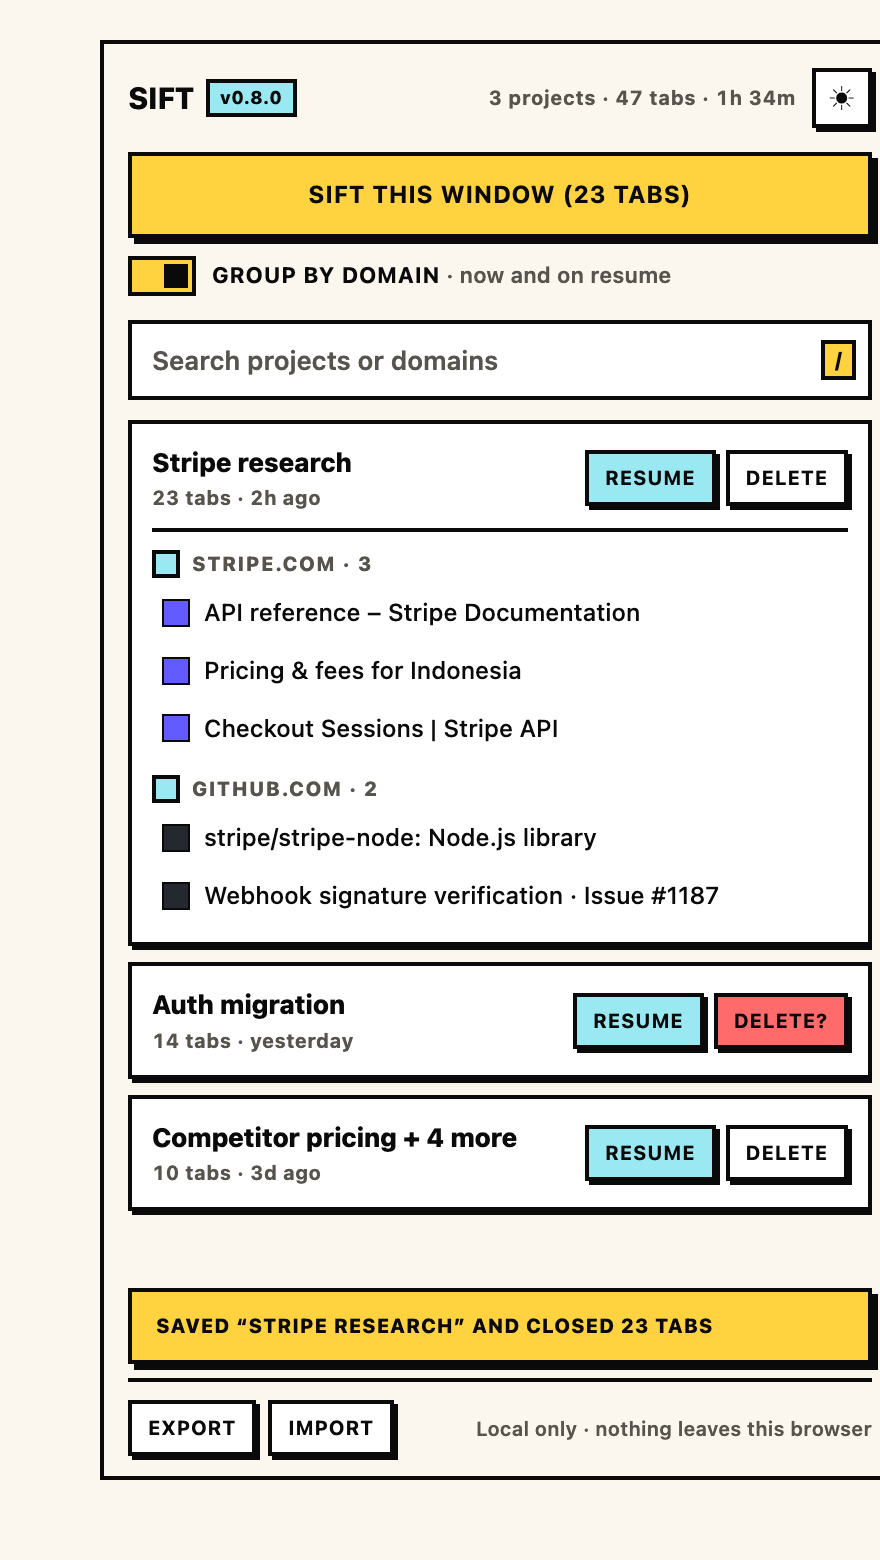
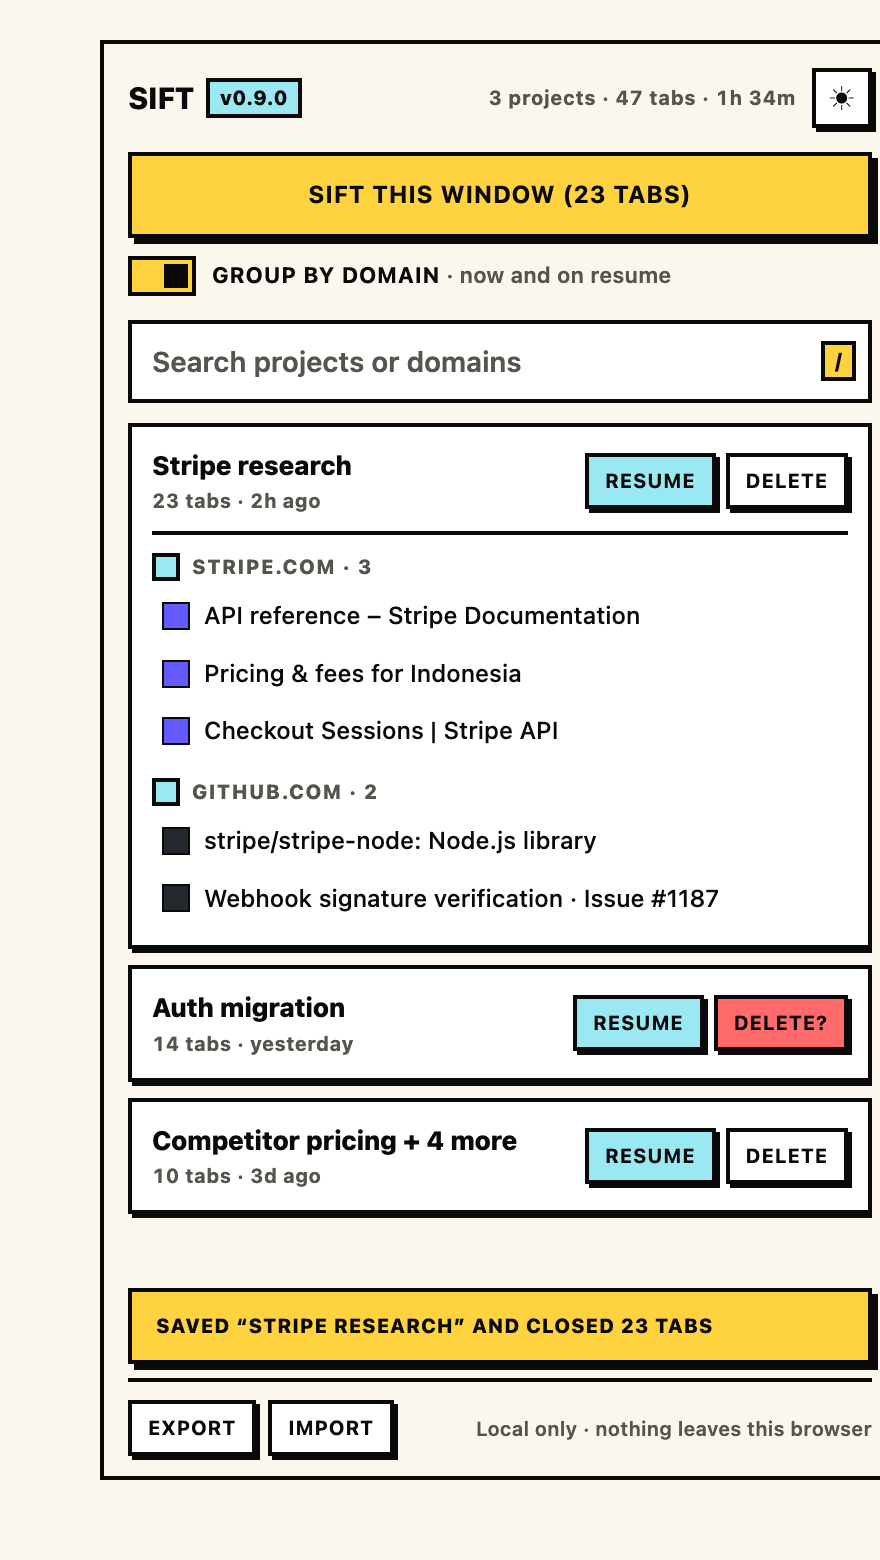
Consistent type scale, and make resume window-safe
Font sizes were seven ad-hoc values and the inputs had no size at all, so field
text silently inherited body copy and read smaller than the uppercase buttons.
There is now one six-step scale (10/11/12/13/14/15) in :root, every font-size
reads from it, and fields get their own step. tools/contrast.py fails on any raw
font-size outside the scale.

Resume: chrome.tabs.group() infers the window from the tabs it is given, so if
the tab ids resolved anywhere other than the new window the groups were created
there. The window is now passed explicitly (createProperties.windowId), tab ids
are filtered to that window before grouping, and the result is verified: the
panel logs newWindow/urls/tabsInWindow/groups and the toast says 'in a new
window' or names the problem instead of leaving you guessing.

Changed region(s): [[0.1534, 0.2154, 0.9818, 0.8], [0.2455, 0.0308, 0.3375, 0.0923]]

diff --git a/extension/sidepanel.css b/extension/sidepanel.css
@@ -14,6 +14,13 @@
   --focus: #2b2bff;
   --hard: 3px 3px 0 var(--ink);
   --hard-sm: 2px 2px 0 var(--ink);
+  /* one scale, six steps — every font-size below reads from here */
+  --fs-micro: 10px;  /* labels, meta, stats, note, toast, chips */
+  --fs-button: 11px; /* buttons and the toggle label (uppercase reads larger) */
+  --fs-row: 12px;    /* tab rows inside a project */
+  --fs-body: 13px;   /* body copy and project titles */
+  --fs-input: 14px;  /* field values — never inherit, fields get their own size */
+  --fs-title: 15px;  /* panel title */
 }
 
 /* Theme is explicit, not OS-driven: light is the default, the header button switches.
@@ -53,7 +60,9 @@ body {
   margin: 0;
   background: var(--bg);
   color: var(--fg);
-  font: 13px/1.4 -apple-system, BlinkMacSystemFont, "Segoe UI", system-ui, sans-serif;
+  font-family: -apple-system, BlinkMacSystemFont, "Segoe UI", system-ui, sans-serif;
+  font-size: var(--fs-body);
+  line-height: 1.4;
   display: flex;
   flex-direction: column;
   gap: 12px;
@@ -74,7 +83,7 @@ h1 {
   display: flex;
   align-items: center;
   gap: 6px;
-  font-size: 15px;
+  font-size: var(--fs-title);
   font-weight: 800;
   text-transform: uppercase;
   letter-spacing: -0.01em;
@@ -82,7 +91,7 @@ h1 {
 
 .ver {
   padding: 1px 5px;
-  font-size: 9px;
+  font-size: var(--fs-micro);
   font-weight: 800;
   text-transform: none;
   letter-spacing: 0.02em;
@@ -97,7 +106,7 @@ h1 {
   overflow: hidden;
   text-overflow: ellipsis;
   white-space: nowrap;
-  font-size: 10px;
+  font-size: var(--fs-micro);
   font-weight: 700;
   letter-spacing: 0.02em;
   color: var(--muted);
@@ -110,7 +119,7 @@ button.theme {
   width: 30px;
   height: 30px;
   padding: 0;
-  font-size: 14px;
+  font-size: var(--fs-input);
   line-height: 1;
 }
 
@@ -118,7 +127,7 @@ button.theme {
 
 button {
   font: inherit;
-  font-size: 11px;
+  font-size: var(--fs-button);
   font-weight: 700;
   text-transform: uppercase;
   letter-spacing: 0.03em;
@@ -177,14 +186,14 @@ button.cyan:hover:not(:disabled) {
 }
 
 button.small {
-  font-size: 10px;
+  font-size: var(--fs-micro);
   padding: 5px 8px;
 }
 
 button.wide {
   width: 100%;
   padding: 11px;
-  font-size: 12px;
+  font-size: var(--fs-row);
   box-shadow: var(--hard);
 }
 
@@ -204,7 +213,7 @@ button.wide {
   display: flex;
   flex-direction: column;
   gap: 5px;
-  font-size: 10px;
+  font-size: var(--fs-micro);
   font-weight: 700;
   text-transform: uppercase;
   letter-spacing: 0.04em;
@@ -226,7 +235,7 @@ button.wide {
 
 .row button {
   padding: 7px 8px;
-  font-size: 10px;
+  font-size: var(--fs-micro);
   white-space: nowrap;
 }
 
@@ -235,6 +244,7 @@ button.wide {
 input[type="text"],
 input[type="search"] {
   font: inherit;
+  font-size: var(--fs-input);
   font-weight: 600;
   width: 100%;
   padding: 9px 10px;
@@ -255,7 +265,7 @@ input::placeholder {
   display: flex;
   align-items: center;
   gap: 8px;
-  font-size: 11px;
+  font-size: var(--fs-button);
   font-weight: 700;
   text-transform: uppercase;
   letter-spacing: 0.03em;
@@ -347,7 +357,7 @@ input::placeholder {
   transform: translateY(-50%);
   padding: 1px 5px;
   font: inherit;
-  font-size: 10px;
+  font-size: var(--fs-micro);
   font-weight: 800;
   color: var(--primary-fg);
   background: var(--primary);
@@ -396,7 +406,7 @@ input::placeholder {
   box-shadow: none;
   background: none;
   text-transform: none;
-  font-size: 13px;
+  font-size: var(--fs-body);
   font-weight: 800;
   letter-spacing: -0.01em;
   text-align: left;
@@ -417,7 +427,7 @@ input::placeholder {
 }
 
 .meta {
-  font-size: 10px;
+  font-size: var(--fs-micro);
   font-weight: 700;
   letter-spacing: 0.01em;
   color: var(--muted);
@@ -462,7 +472,7 @@ button.delete:hover:not(:disabled) {
   align-items: center;
   gap: 6px;
   margin-bottom: 2px;
-  font-size: 10px;
+  font-size: var(--fs-micro);
   font-weight: 800;
   text-transform: uppercase;
   letter-spacing: 0.06em;
@@ -483,7 +493,7 @@ button.delete:hover:not(:disabled) {
   gap: 7px;
   width: 100%;
   padding: 5px;
-  font-size: 12px;
+  font-size: var(--fs-row);
   font-weight: 500;
   text-transform: none;
   letter-spacing: 0;
@@ -519,7 +529,7 @@ button.delete:hover:not(:disabled) {
   margin: 10px 0;
   padding: 20px 12px;
   text-align: center;
-  font-size: 11px;
+  font-size: var(--fs-button);
   font-weight: 700;
   text-transform: uppercase;
   letter-spacing: 0.03em;
@@ -540,7 +550,7 @@ button.delete:hover:not(:disabled) {
 .note {
   margin-left: auto;
   max-width: 55%;
-  font-size: 10px;
+  font-size: var(--fs-micro);
   font-weight: 600;
   line-height: 1.25;
   color: var(--muted);
@@ -554,7 +564,7 @@ button.delete:hover:not(:disabled) {
   bottom: 52px;
   margin: 0;
   padding: 10px 12px;
-  font-size: 10px;
+  font-size: var(--fs-micro);
   font-weight: 800;
   text-transform: uppercase;
   letter-spacing: 0.03em;

diff --git a/extension/sidepanel.js b/extension/sidepanel.js
@@ -306,14 +306,37 @@ async function onProjectClick(event) {
   if (action === 'resume') {
     const project = projects.find((p) => p.id === id);
     if (!project) return;
-    const win = await chrome.windows.create({ url: project.tabs.map((t) => t.url), focused: true });
-    const grouped = settings.groupByDomain ? await applyGroups(win.id, project.tabs) : { made: 0, errors: [] };
+
+    const urls = project.tabs.map((t) => t.url);
+    // always a NEW window: one project = one window, closable as a unit
+    const win = await chrome.windows.create({ url: urls, focused: true });
+    if (win?.id === undefined) {
+      status('Resume failed: Chrome did not report the new window.');
+      return;
+    }
+
+    const grouped = settings.groupByDomain
+      ? await applyGroups(win.id, project.tabs)
+      : { made: 0, errors: [] };
+
+    const placed = await chrome.tabs.query({ windowId: win.id });
+    console.info(
+      `Sift resume: newWindow=${win.id} urls=${urls.length} tabsInWindow=${placed.length} groups=${grouped.made}` +
+        (grouped.errors.length ? ` errors=${grouped.errors.join('; ')}` : ''),
+    );
+
     project.lastActiveAt = Date.now();
     await saveProjects(projects);
     render();
+
+    const problems = [...grouped.errors];
+    if (placed.length !== urls.length) {
+      problems.push(`${placed.length} of ${urls.length} tabs landed in the new window`);
+    }
     status(
-      `Resumed “${project.name}”${grouped.made ? ` in ${grouped.made} tab groups` : ''}` +
-        (grouped.errors.length ? ` — grouping failed: ${grouped.errors[0]}` : '.') ,
+      problems.length
+        ? `Resumed “${project.name}” in a new window — ${problems[0]}`
+        : `Resumed “${project.name}” in a new window${grouped.made ? `, ${grouped.made} tab groups` : ''}.`,
     );
     return;
   }
@@ -363,15 +386,21 @@ async function waitForUrls(windowId, timeoutMs = 2500) {
 }
 
 // groups: [{ title, color?, tabIds }] — returns what actually happened, never throws.
-async function groupTabs(groups) {
+// windowId is passed explicitly: without it Chrome infers the window from the tabs,
+// which is how a resume could quietly group tabs somewhere other than the new window.
+async function groupTabs(windowId, groups) {
   let made = 0;
   const errors = [];
 
+  const live = new Set((await chrome.tabs.query({ windowId })).map((t) => t.id));
+
   for (const [index, group] of groups.entries()) {
-    const tabIds = group.tabIds.filter((id) => id !== undefined);
+    const tabIds = group.tabIds.filter((id) => id !== undefined && live.has(id));
     if (!tabIds.length) continue;
     try {
-      const groupId = await withRetry(() => chrome.tabs.group({ tabIds }));
+      const groupId = await withRetry(() =>
+        chrome.tabs.group({ tabIds, createProperties: { windowId } }),
+      );
       await chrome.tabGroups.update(groupId, {
         title: group.title,
         color: group.color ?? GROUP_COLORS[index % GROUP_COLORS.length],
@@ -395,12 +424,20 @@ async function groupWindowByDomain(windowId) {
   ).map((group) => ({ title: group.domain, tabIds: group.tabs.map((t) => t.id) }));
 
   if (groups.length < 2) return { made: 0, errors: [] }; // one domain: nothing to group
-  return groupTabs(groups);
+  return groupTabs(windowId, groups);
 }
 
 // Resumed window → rebuild the groups the project was saved with.
 async function applyGroups(windowId, savedTabs) {
   const live = await waitForUrls(windowId);
+  if (!live.length) return { made: 0, errors: ['the new window reported no tabs'] };
+
+  // a mismatch means indices may not line up — still group best effort, but say so
+  const notes =
+    live.length === savedTabs.length
+      ? []
+      : [`new window holds ${live.length} of ${savedTabs.length} tabs`];
+
   const groups = planGroups(savedTabs)
     .map((group) => ({
       ...group,
@@ -408,8 +445,9 @@ async function applyGroups(windowId, savedTabs) {
     }))
     .filter((group) => group.tabIds.length);
 
-  if (groups.length < 2) return { made: 0, errors: [] };
-  return groupTabs(groups);
+  if (groups.length < 2) return { made: 0, errors: notes };
+  const result = await groupTabs(windowId, groups);
+  return { made: result.made, errors: [...notes, ...result.errors] };
 }
 
 async function currentWindowId() {

diff --git a/tools/preview.html b/tools/preview.html
@@ -27,7 +27,7 @@
   </head>
   <body>
     <header class="head">
-      <h1>Sift <span class="ver">v0.8.0</span></h1>
+      <h1>Sift <span class="ver">v0.9.0</span></h1>
       <span class="stats">3 projects · 47 tabs · 1h 34m</span>
       <button class="theme" type="button">☾</button>
     </header>

diff --git a/tools/contrast.py b/tools/contrast.py
@@ -114,6 +114,23 @@ def check_hidden_rule() -> bool:
     return True
 
 
+def check_font_scale() -> bool:
+    """Every font-size must come from the scale in :root, so sizes cannot drift
+    apart one declaration at a time (the input used to inherit and read small)."""
+    css = CSS.read_text()
+    root = re.search(r":root\s*\{(.*?)\}", css, re.S).group(1)
+    body = css.replace(root, "")
+    values = [v.strip() for v in re.findall(r"font-size:\s*([^;]+);", body)]
+    raw = [v for v in values if not v.startswith("var(")]
+    if raw:
+        print("\nFAIL raw font-size outside the scale:", ", ".join(raw))
+        return False
+
+    scale = dict(re.findall(r"--(fs-[\w-]+):\s*(\d+px)", root))
+    print(f"ok   font scale: {', '.join(f'{k}={v}' for k, v in scale.items())}")
+    return True
+
+
 def main() -> int:
     css = CSS.read_text()
     light = tokens(re.search(r":root\s*\{(.*?)\}", css, re.S).group(1))
@@ -144,6 +161,7 @@ def main() -> int:
     failed |= not check_class_coverage()
     failed |= not check_interactions()
     failed |= not check_hidden_rule()
+    failed |= not check_font_scale()
     print()
     return 1 if failed else 0
 

diff --git a/README.md b/README.md
@@ -19,7 +19,7 @@ Local-first: no backend, no account, no AI, no network calls. The whole thing is
 
 ## Status
 
-`v0.8.0` — local MVP, pre-store. Three features only:
+`v0.9.0` — local MVP, pre-store. Three features only:
 
 | Feature | Notes |
 |---|---|
@@ -64,7 +64,7 @@ which is git-ignored — this repo is the code.
 
 After editing code: click **⟳** on the extension card, then **close and reopen the
 side panel** — reloading the extension does not re-render an open panel.
-The panel header stamps the running version (`SIFT v0.8.0`), so you can always tell
+The panel header stamps the running version (`SIFT v0.9.0`), so you can always tell
 which build is live.
 
 ## Develop
@@ -76,7 +76,7 @@ python3 ../tools/contrast.py    # WCAG AA, dark-theme completeness, class + list
 python3 ../tools/make-icons.py  # regenerate icons
 bash ../tools/shot.sh light     # → docs/preview-light.png (README screenshots)
 bash ../tools/shot.sh dark save # → docs/preview-dark-save.png (save-form state)
-bash ../tools/pack.sh           # → dist/sift-extension-v0.8.0.zip
+bash ../tools/pack.sh           # → dist/sift-extension-v0.9.0.zip
 ```
 
 `tools/preview.html` renders the real `sidepanel.css` with mock projects, so UI changes
